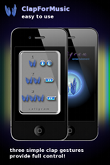
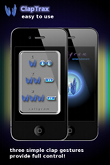
updated site for new description and name

Changed region(s): [[0.1636, 0.0303, 0.6545, 0.0909]]

diff --git a/trunk/magic-table/website/claptrax.html b/trunk/magic-table/website/claptrax.html
@@ -13,7 +13,7 @@ Released   : 20100423
 <html xmlns="http://www.w3.org/1999/xhtml">
 <head>
 <meta http-equiv="content-type" content="text/html; charset=utf-8" />
-<title>ClapForMusic</title>
+<title>ClapTrax</title>
 <link href="style.css" rel="stylesheet" type="text/css" media="screen" />
 <style type="text/css">
 </style>
@@ -36,7 +36,7 @@ Released   : 20100423
 </script>
 <!-- end #header-wrapper -->
 <div id="logo">
-	<h1>ClapForMusic </h1>
+	<h1>ClapTrax </h1>
 	<em> by Caligram</em>
 </div>
 <div id="header">
@@ -69,31 +69,35 @@ Released   : 20100423
 	<div id="page-bgtop">
 		
 		<div id="textContent">
-			<h1>ClapForMusic</h1>
+			<h1>ClapTrax</h1>
 			<br><br>
 			<!-- adsense container -->
 			<div>
 				<div class="post" style="float: left; width:60%;">
-					<h2 class="title">A new app for IPhone, IPod and IPad</h2>
+					<h2 class="title">A new app for IPhone and IPod</h2>
 					<br>
 					<p class="text">
 						<span class="italicBlue">
-							Control your music without a remote control!
+							Walk into a room and start your music playing with a single clap!
 						</span>
-						Just clap your hands to play your music and move through your playlists!
+						Dock your iPhone then control your music from across the room without a remote!
 					</p>
 
 					<p class="text">
-					Access your IPod from the other side of the room, without a remote!
-					Clap once to play or pause your music. Clap twice to move to the next song.
-					Three claps to play the previous song.
-					Turn your phone into the ultimate audio system that will be the envy of all your friends.
+					 Just clap your hands to play your music and skip through your tunes.
+					<br>
+					<br>
+       				Clap once to play or pause your music. Clap twice to move to the next song.
+       				Three claps to play the previous song.
+					<br>
+					<br>
+       				Turn your phone into the ultimate audio system that will be the envy of all your guests!
 					</p>
 
 					<p>
 					(iPod Touch users need a microphone to detects claps)
 					<br>
-					(iPhone and iPod Touch devices require iOS v4.x)
+					Available on iOS 4.1 and above.
 					</p>
 
 					<br>
